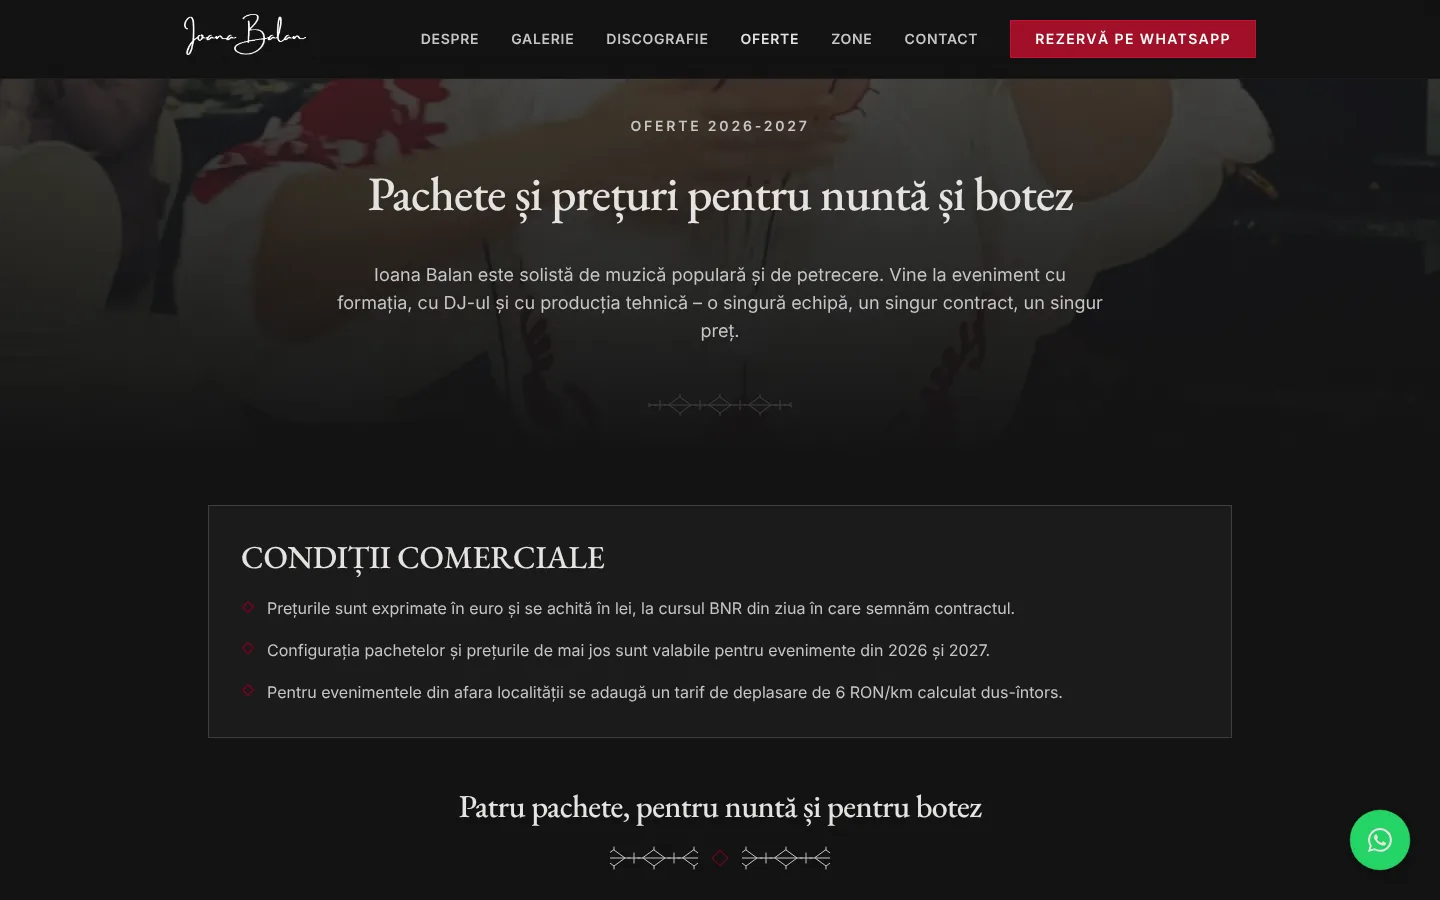
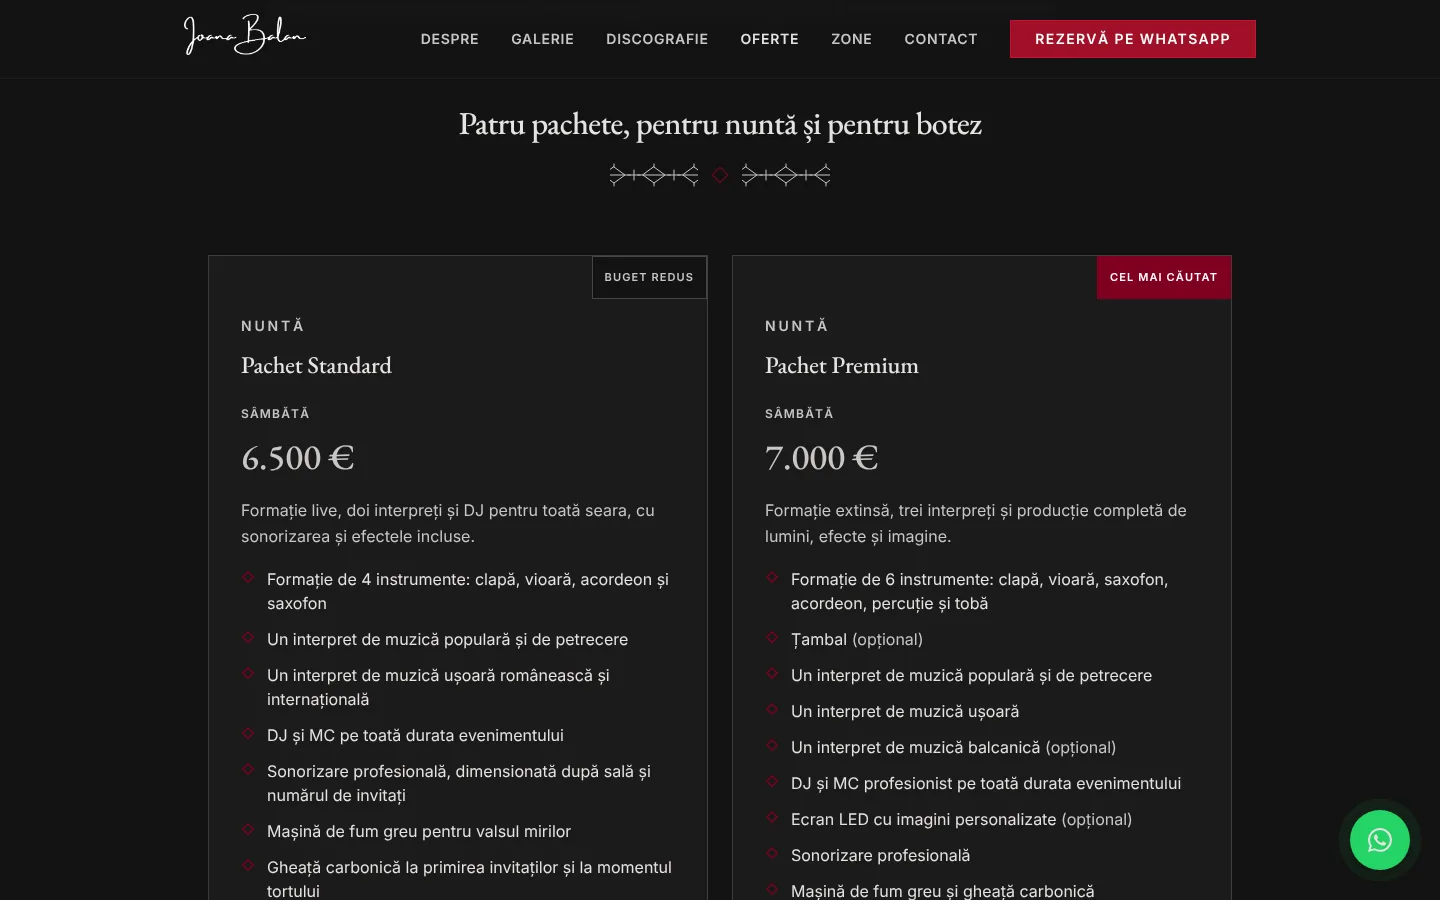
content: retake zone/oferte screenshots, align travel radius to 340 km
Claude-Session: https://claude.ai/code/session_01SuFMtSUFDXGmtX9vMdxdmQ

diff --git a/astro/src/content/caseStudies/ioana-balan-seo-local.md b/astro/src/content/caseStudies/ioana-balan-seo-local.md
@@ -60,7 +60,7 @@ Valoarea artistică exista deja: recenzii excelente, videoclipuri live, un reper
 
 Pe piața formațiilor de nuntă, decizia se ia în trei pași: mirii caută după oraș sau județ, compară prețuri, apoi scriu pe WhatsApp. Site-ul trebuia să câștige la toți trei.
 
-1. **Vizibilitate locală în afara Bucureștiului.** Formația cântă pe o rază de circa 300 km. Fiecare județ deservit avea nevoie de o pagină care să răspundă căutărilor de tipul „formație nuntă Pitești” sau „solistă muzică populară Brașov”.
+1. **Vizibilitate locală în afara Bucureștiului.** Formația cântă pe o rază de circa 340 km. Fiecare județ deservit avea nevoie de o pagină care să răspundă căutărilor de tipul „formație nuntă Pitești” sau „solistă muzică populară Brașov”.
 2. **Preț premium, justificat.** Pachetele sunt în zona de sus a pieței. Fără context, un preț mare sperie; ascuns, îi trimite pe miri la concurență.
 3. **Conversie pe canalul potrivit.** Formularele clasice sunt ignorate în nișa asta. Mirii vor un răspuns rapid, pe telefon.
 

diff --git a/astro/src/content/caseStudies/ioana-balan-seo-local-it.md b/astro/src/content/caseStudies/ioana-balan-seo-local-it.md
@@ -61,7 +61,7 @@ Il valore artistico c'era già: recensioni eccellenti, video live, un repertorio
 
 Nel mercato romeno delle band per matrimoni, la decisione avviene in tre passaggi: gli sposi cercano per città o provincia, confrontano i prezzi, poi scrivono su WhatsApp. Il sito doveva vincere su tutti e tre.
 
-1. **Visibilità locale fuori Bucarest.** La band si sposta in un raggio di circa 300 km. Ogni provincia servita aveva bisogno di una pagina che rispondesse a ricerche come "band matrimonio Pitești" o "cantante popolare Brașov".
+1. **Visibilità locale fuori Bucarest.** La band si sposta in un raggio di circa 340 km. Ogni provincia servita aveva bisogno di una pagina che rispondesse a ricerche come "band matrimonio Pitești" o "cantante popolare Brașov".
 2. **Prezzo premium, giustificato.** I pacchetti sono nella fascia alta del mercato. Senza contesto, un prezzo alto spaventa; nascosto, manda gli sposi dalla concorrenza.
 3. **Conversione sul canale giusto.** In questa nicchia i moduli di contatto classici vengono ignorati. Gli sposi vogliono una risposta rapida, sul telefono.
 

diff --git a/astro/src/content/blog/pagini-de-zona-seo-local.md b/astro/src/content/blog/pagini-de-zona-seo-local.md
@@ -13,7 +13,7 @@ draft: false
 
 Dacă afacerea ta lucrează în mai multe orașe sau județe, ai o problemă pe care un site „de prezentare” nu o rezolvă: clientul din Pitești nu caută numele tău. Caută „ce-ai tu de vândut” plus „Pitești”. Dacă nu ai o pagină care să răspundă exact la căutarea asta, Google arată pe altcineva.
 
-Soluția clasică sunt paginile de zonă. Soluția greșită, și cea mai răspândită, sunt paginile de zonă clonate. Mai jos îți arăt diferența pe un proiect real: site-ul [ioana-balan.ro](https://www.ioana-balan.ro/), pentru o solistă de muzică populară cu formație din București, care cântă pe o rază de circa 300 km.
+Soluția clasică sunt paginile de zonă. Soluția greșită, și cea mai răspândită, sunt paginile de zonă clonate. Mai jos îți arăt diferența pe un proiect real: site-ul [ioana-balan.ro](https://www.ioana-balan.ro/), pentru o solistă de muzică populară cu formație din București, care cântă pe o rază de circa 340 km.
 
 ## De ce pagini de zonă și nu doar „deservim toată țara”
 

diff --git a/astro/src/content/blog/pagine-locali-seo-locale-it.md b/astro/src/content/blog/pagine-locali-seo-locale-it.md
@@ -14,7 +14,7 @@ draft: false
 
 Se la tua attività lavora in più città o province, hai un problema che un semplice sito vetrina non risolve: il cliente della città vicina non cerca il tuo nome. Cerca quello che vendi, più la sua città. Se non hai una pagina che risponde esattamente a quella ricerca, Google mostra qualcun altro.
 
-La soluzione classica sono le pagine locali. La soluzione sbagliata, e la più diffusa, sono le pagine locali clonate. Qui sotto ti mostro la differenza su un progetto reale: [ioana-balan.ro](https://www.ioana-balan.ro/), il sito di una cantante di musica popolare di Bucarest con band completa, che si esibisce in un raggio di circa 300 km.
+La soluzione classica sono le pagine locali. La soluzione sbagliata, e la più diffusa, sono le pagine locali clonate. Qui sotto ti mostro la differenza su un progetto reale: [ioana-balan.ro](https://www.ioana-balan.ro/), il sito di una cantante di musica popolare di Bucarest con band completa, che si esibisce in un raggio di circa 340 km.
 
 ## Perché pagine locali e non solo "copriamo tutto il Paese"
 

diff --git a/astro/src/content/blog/service-area-pages-local-seo-en.md b/astro/src/content/blog/service-area-pages-local-seo-en.md
@@ -14,7 +14,7 @@ draft: false
 
 If your business works across several towns or regions, you have a problem a plain brochure website won't solve: the customer in the next city isn't searching for your name. They search for what you sell, plus their city. If you don't have a page answering exactly that search, Google shows someone else.
 
-The classic fix is service-area pages. The wrong fix, and the most common one, is cloned service-area pages. Below I show the difference on a real project: [ioana-balan.ro](https://www.ioana-balan.ro/), the website of a Bucharest folk singer with a full band who performs within roughly 300 km.
+The classic fix is service-area pages. The wrong fix, and the most common one, is cloned service-area pages. Below I show the difference on a real project: [ioana-balan.ro](https://www.ioana-balan.ro/), the website of a Bucharest folk singer with a full band who performs within roughly 340 km.
 
 ## Why area pages, not just "we cover the whole country"
 

diff --git a/astro/src/content/caseStudies/ioana-balan-seo-local-en.md b/astro/src/content/caseStudies/ioana-balan-seo-local-en.md
@@ -61,7 +61,7 @@ The artistic value was already there: excellent reviews, live videos, a repertoi
 
 In the Romanian wedding band market, the decision happens in three steps: couples search by city or county, compare prices, then message on WhatsApp. The website had to win all three.
 
-1. **Local visibility outside Bucharest.** The band travels within roughly 300 km. Every county served needed a page answering searches like "wedding band Pitești" or "folk singer Brașov".
+1. **Local visibility outside Bucharest.** The band travels within roughly 340 km. Every county served needed a page answering searches like "wedding band Pitești" or "folk singer Brașov".
 2. **Premium pricing, justified.** The packages sit at the top of the market. Without context, a high price scares people off; hidden, it sends couples to competitors.
 3. **Conversion on the right channel.** Classic contact forms get ignored in this niche. Couples want a fast answer, on their phone.
 
